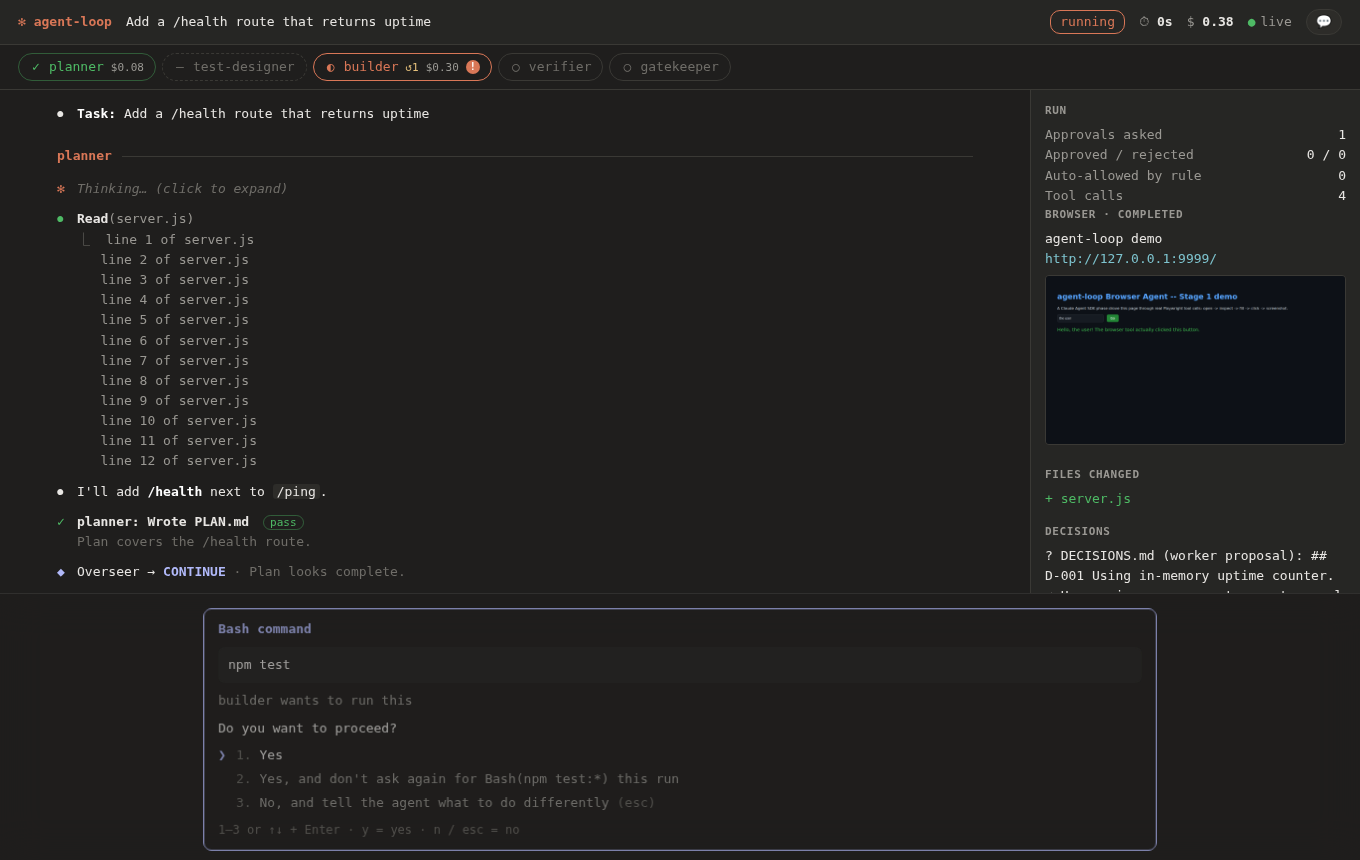
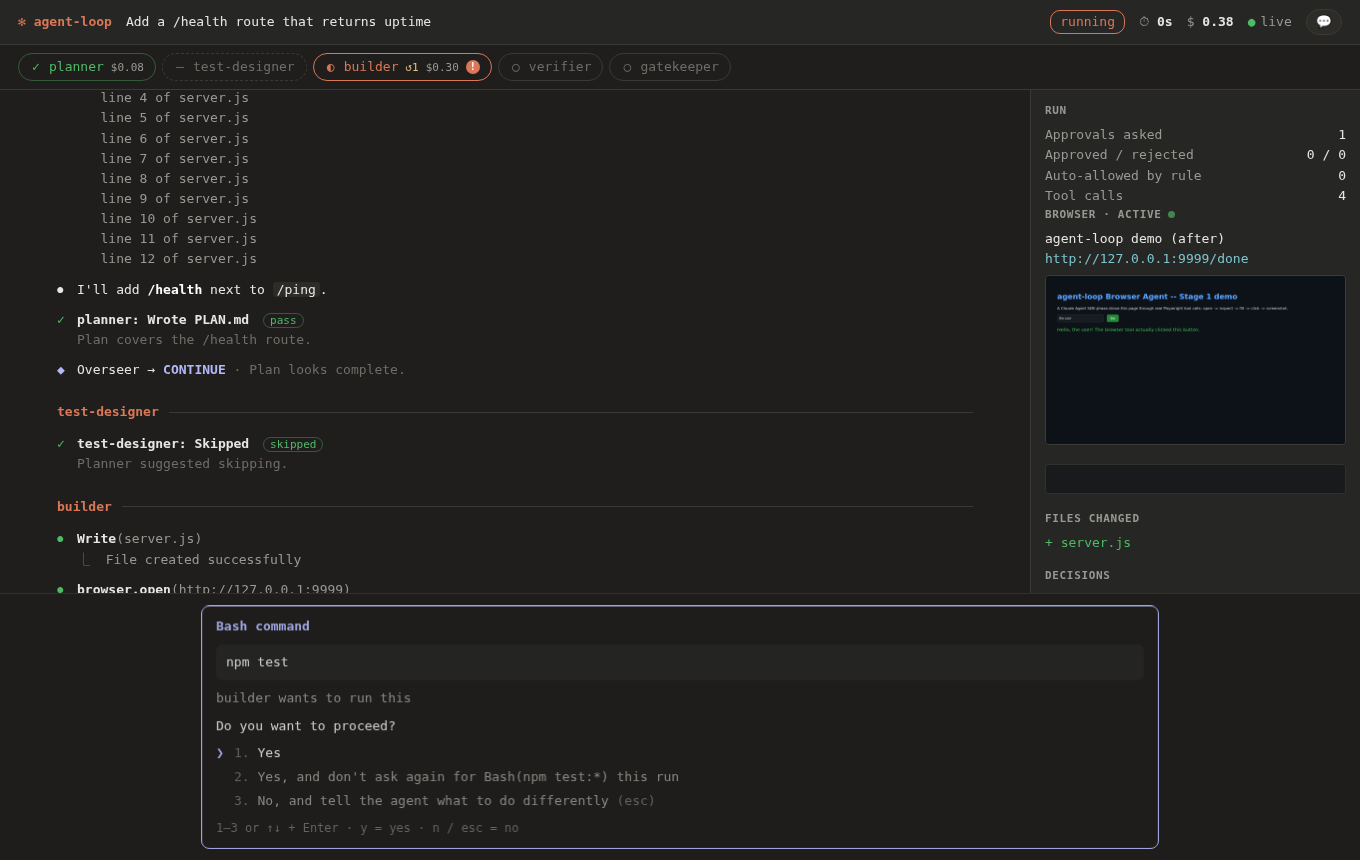
Make the browser panel a live view with a full snapshot gallery
Previously a browser-snapshot event just overwrote a single shared shot,
so the panel silently lost every earlier screenshot -- whatever the agent
was looking at a minute ago was already gone once a newer one arrived, and
there was no live indicator that the panel was even still updating.

- Every snapshot this run is kept (capped at 24) and shown as a filmstrip
  below the main image. The main view follows the newest one automatically
  ("live-follow"); clicking an older thumbnail pins the view to it and
  shows a "jump to live" control, so looking back doesn't fight the run
  for control of the display.
- A small pulsing dot next to "Browser · active", and a slow breathe on
  the active phase's own stepper icon, signal "still working" continuously
  between discrete WebSocket events instead of the UI looking frozen until
  the next one arrives. Implemented as CSS animation, not a JS ticker --
  the DOM-native equivalent of the persistent, dirty-flag-gated render loop
  a reviewed reference project uses a Pixi ticker for (see the upcoming
  docs/INSPIRATION-POKEHARNESS.md), appropriate for a DOM dashboard rather
  than a canvas game.
- A few rotating one-liners in the idle status line (picked by wall-clock
  time, changing every 8s) instead of a single static message. Dry,
  self-deprecating dev humor only -- this sits on the same screen as
  destructive-command approval prompts, so it stays professional rather
  than undermining what's actually being reviewed there.
[…]

diff --git a/ui/index.html b/ui/index.html
@@ -41,6 +41,10 @@
   .step { display: flex; align-items: center; gap: 7px; padding: 3px 11px; border: 1px solid var(--line); border-radius: 14px; color: var(--faint); background: none; cursor: pointer; white-space: nowrap; }
   .step .icon { width: 12px; text-align: center; }
   .step[data-state="active"] { color: var(--accent); border-color: var(--accent); }
+  /* A slow, independent breathe on the active phase's icon -- signals "still working" continuously
+     between discrete WS events instead of the row looking frozen until the next one arrives. Kept
+     visually distinct from data-waiting's glow (a different, more urgent signal: needs you). */
+  .step[data-state="active"] .icon { animation: live-pulse 2.4s ease-in-out infinite; }
   .step[data-state="pass"] { color: var(--green); border-color: #4eba6566; }
   .step[data-state="fail"] { color: var(--red); border-color: #ff6b8066; }
   .step[data-state="skipped"] { color: var(--faint); border-style: dashed; }
@@ -78,6 +82,16 @@
   #browser-panel.live { display: block; }
   #browser-panel img { width: 100%; border: 1px solid var(--line); border-radius: 4px; margin-top: 6px; cursor: zoom-in; background: #111; }
   #browser-panel .url { color: var(--cyan); word-break: break-all; }
+  #browser-panel h3 { display: flex; align-items: center; gap: 6px; }
+  .live-dot { width: 7px; height: 7px; border-radius: 999px; background: var(--green); display: inline-block; animation: live-pulse 1.6s ease-in-out infinite; }
+  .shot-main { animation: shot-flash .5s ease-out; }
+  .shot-jump-live { margin-top: 6px; width: 100%; }
+  /* A filmstrip of every snapshot taken this run, not just the latest -- the run is often over
+     before anyone's looking, so a history to scrub back through matters as much as "live" does. */
+  .shot-gallery { display: flex; gap: 4px; overflow-x: auto; margin-top: 6px; padding-bottom: 2px; }
+  .shot-gallery img { width: 44px; height: 30px; object-fit: cover; flex: none; border-radius: 3px; border: 1px solid var(--line); cursor: pointer; opacity: .55; background: #111; }
+  .shot-gallery img:hover { opacity: .85; }
+  .shot-gallery img.sel { opacity: 1; border-color: var(--accent); }
   @media (max-width: 1000px) { aside { display: none; } }
 
   /* transcript blocks */
@@ -226,6 +240,12 @@
      around the whole line -- present, not loud. */
   .blk.tool.awaiting { animation: blk-in .2s ease-out, pulse-glow-blk 2.2s ease-in-out infinite; }
   @keyframes pulse-glow-blk { 0%, 100% { box-shadow: -2px 0 0 0 rgba(217, 119, 87, .5); } 50% { box-shadow: -2px 0 8px 1px rgba(217, 119, 87, .38); } }
+  /* The browser panel's "live" dot and the brief flash on its main image when a new snapshot lands
+     -- shot-main is a fresh DOM node on every render (innerHTML is rebuilt wholesale), so this
+     animation replays automatically each time without any manual class-toggling JS, the same trick
+     .blk's own blk-in entrance animation already relies on. */
+  @keyframes live-pulse { 0%, 100% { opacity: 1; } 50% { opacity: .35; } }
+  @keyframes shot-flash { from { filter: brightness(1.6); } to { filter: brightness(1); } }
   html { transition: background-color .25s ease; }
   body, header, #stepper, aside, #dock, .step, .blk, .tag, .opt, .smallbtn, #theme-toggle,
   #run-state, .inputrow, #jump {
@@ -280,6 +300,21 @@
 
 <script>
 const PHASES = ["planner", "test-designer", "builder", "verifier", "gatekeeper"];
+// Rotates every 8s while idle -- picked by wall-clock time, not per-tick random, so it changes
+// slowly instead of flickering every second. Kept light, not edgy: this sits on the same screen as
+// destructive-command approval prompts, so the tone stays dry rather than dark.
+const IDLE_LINES = [
+  "Waiting for a run to start.",
+  "Idle. Even the Overseer needs a moment.",
+  "No run yet — the calm before the commits.",
+  "Standing by. Coffee's probably cold by now.",
+  "Idle. Unlike your CI queue, this part's free.",
+  "Nothing running. Good time to write that test you've been avoiding.",
+  "Idle. No commits, no incidents — a rare and beautiful combination.",
+  "Nothing running. Somewhere, someone's about to force-push to main.",
+  "Idle. That TODO from 2019 still isn't going to fix itself.",
+  "Nothing running. Your last commit message still doesn't explain what changed.",
+];
 const $ = (id) => document.getElementById(id);
 const scrollBox = $("scroll"), transcript = $("transcript"), dockInner = $("dock-inner");
 const token = new URLSearchParams(location.hash.slice(1)).get("token") || "";
@@ -397,15 +432,35 @@ setInterval(() => {
 // The dock is rebuilt whenever the pending prompt changes; an explicit mode avoids rebuilding the idle input.
 
 const browserPanel = $("browser-panel");
+// `history`: every snapshot taken this run (capped -- a long run can easily produce dozens), so the
+// panel is a scrubbable record, not just whatever the agent happened to be looking at last.
+// `pinned`: null means "follow the newest snapshot automatically" (the live-view default); an index
+// means the user clicked an older thumbnail and is deliberately looking at it, so a new snapshot
+// arriving must not yank the view out from under them -- it should just make "jump to live" appear.
+const browserState = { history: [], pinned: null };
+const SHOT_HISTORY_CAP = 24;
 function renderBrowserPanel(d) {
   browserPanel.classList.add("live");
-  browserPanel.innerHTML = "<h3>Browser · " + esc(d.status || "active") + "</h3>" +
-    "<div>" + esc(d.title || "(no page loaded yet)") + "</div>" +
-    (d.url ? '<div class="url">' + esc(d.url) + "</div>" : "") +
-    (d.shot ? '<a href="' + artifactUrl(d.runId, d.shot) + '" target="_blank"><img src="' + artifactUrl(d.runId, d.shot) + '" /></a>' : "") +
+  const atLive = d.pinned == null;
+  const idx = atLive ? d.history.length - 1 : d.pinned;
+  const cur = d.history[idx] || { shot: d.shot, url: d.url, title: d.title };
+  const isLive = d.status === "active" || d.status === undefined;
+  browserPanel.innerHTML =
+    "<h3>Browser · " + esc(d.status || "active") + (isLive ? ' <span class="live-dot" title="updating live"></span>' : "") + "</h3>" +
+    "<div>" + esc(cur.title || "(no page loaded yet)") + "</div>" +
+    (cur.url ? '<div class="url">' + esc(cur.url) + "</div>" : "") +
+    (cur.shot ? '<a href="' + artifactUrl(d.runId, cur.shot) + '" target="_blank"><img class="shot-main" src="' + artifactUrl(d.runId, cur.shot) + '" /></a>' : "") +
+    (!atLive ? '<button type="button" class="smallbtn shot-jump-live">⏵ jump to live</button>' : "") +
+    (d.history.length > 1
+      ? '<div class="shot-gallery">' + d.history.map((s, i) =>
+          '<img data-idx="' + i + '" class="' + (i === idx ? "sel" : "") + '" src="' + artifactUrl(d.runId, s.shot) + '" title="' + esc(s.title || "snapshot " + (i + 1)) + '" />'
+        ).join("") + "</div>"
+      : "") +
     (d.video ? '<a class="url" href="' + artifactUrl(d.runId, d.video) + '" target="_blank">▶ session recording (.webm)</a>' : "");
+  browserPanel.querySelectorAll(".shot-gallery img").forEach((img) => (img.onclick = () => { d.pinned = +img.dataset.idx; renderBrowserPanel(d); }));
+  const jump = browserPanel.querySelector(".shot-jump-live");
+  if (jump) jump.onclick = () => { d.pinned = null; renderBrowserPanel(d); };
 }
-const browserState = {};
 
 // ---------- the bottom dock: permission prompt (Claude Code style) or status line
 function promptBody(ev) {
@@ -429,7 +484,7 @@ function renderDock() {
     const spin = "⠋⠙⠹⠸⠼⠴⠦⠧⠇⠏"[Math.floor(Date.now() / 1000) % 10];
     const status = running
       ? '<span class="spin">' + spin + "</span> " + esc(state.phase || "starting") + " is working… <span class=\"muted\">(" + fmtTime(Date.now() - state.startedAt) + " · $" + state.cost.toFixed(2) + ")</span>"
-      : state.status === "idle" ? '<span class="muted">Waiting for a run to start.</span>'
+      : state.status === "idle" ? '<span class="muted">' + esc(IDLE_LINES[Math.floor(Date.now() / 8000) % IDLE_LINES.length]) + "</span>"
       : "Run " + esc(state.status) + "." + (state.reportPath ? ' <span class="muted">Saved report: ' + esc(state.reportPath) + "</span>" : "");
     // Only the status text changes each tick; the input is built once so typing never loses focus.
     if (dockInner.dataset.mode === "idle") { dockInner.querySelector(".statusline").innerHTML = status; return; }
@@ -607,13 +662,16 @@ function render(ev) {
     case "browser-artifact-created":
       if (ev.kind === "video") {
         browserState.video = ev.path; renderBrowserPanel(browserState);
+        const lastShot = browserState.history[browserState.history.length - 1]?.shot;
         blk("note", 'Browser session recording <span class="muted">· what the agent actually did in the app</span>' +
           '<video controls preload="metadata" style="display:block;max-width:100%;margin-top:6px;border:1px solid var(--line);border-radius:6px"' +
-          (browserState.shot ? ' poster="' + artifactUrl(ev.runId, browserState.shot) + '"' : "") + ' src="' + artifactUrl(ev.runId, ev.path) + '"></video>');
+          (lastShot ? ' poster="' + artifactUrl(ev.runId, lastShot) + '"' : "") + ' src="' + artifactUrl(ev.runId, ev.path) + '"></video>');
       }
       break;
     case "browser-snapshot":
-      Object.assign(browserState, { runId: ev.runId, url: ev.url, title: ev.title, shot: ev.screenshotPath });
+      browserState.runId = ev.runId;
+      browserState.history.push({ shot: ev.screenshotPath, url: ev.url, title: ev.title, ts: ev.ts });
+      if (browserState.history.length > SHOT_HISTORY_CAP) browserState.history.shift();
       renderBrowserPanel(browserState);
       break;
     // browser-action-started/-completed duplicate the mcp__browser__* tool-call/result lines already

diff --git a/docs/UI.md b/docs/UI.md
@@ -84,8 +84,8 @@ know for "an agent is working, and sometimes needs a yes/no from me."
   for. See `docs/screenshots/approval-ui/07-multiple-pending-approvals.png`.
 - **The header** shows the task, run status, elapsed time, total cost and connection state.
 - **A side panel** shows approval counts, saved "don't ask again" rules, the live browser (page
-  title, URL, latest screenshot), files changed, and decisions (worker proposals vs. ones you
-  recorded).
+  title, URL, a gallery of every screenshot this run -- see below), files changed, and decisions
+  (worker proposals vs. ones you recorded).
 - **The bottom input** takes a trusted decision whenever nothing is waiting: type it and press
   Enter.
 - **A theme toggle** in the header switches between this dark, Claude-Code-terminal-style look (the
@@ -125,6 +125,11 @@ What never becomes a rule, and always asks:
 - `curl`/`wget` to anywhere but localhost, `ssh`
 - `sudo`/`env`/`xargs`/`bash`, and interpreters' inline code (`python3 -c`, `python3 -O -c`,
   `node -e`)
+- `export`/`set`/`declare`/`typeset`/`unset`/`alias`/`unalias`/`readonly` -- these mutate shell state
+  (env vars, options, aliases) that outlives the one command, in the same persistent shell the agent's
+  session keeps across separate Bash calls; a rule for one exact approved line wouldn't help since the
+  risk is a *later*, already-trusted rule (`Bash(npm test:*)`) silently running under an environment
+  someone else changed
 - anything with `$(…)`, backticks, heredocs, or output redirected to a file
 - any command whose words expand at run time (`cat $F`)
 - a command after a `cd` that leaves `--dir`
@@ -144,6 +149,16 @@ two; it's a CSS skin (`:root[data-theme="desktop"]` in `ui/index.html`), not a s
 implementation, and the choice is remembered per-browser in `localStorage`.
 
 ![The same dashboard in the Desktop theme](screenshots/approval-ui/06-desktop-theme.png)
+
+### The browser panel is a live view, not one frame
+
+Every screenshot the agent takes with `--browser` used to just replace the last one in the panel --
+whatever it was looking at a minute ago was already gone. It's now a gallery: every snapshot this run
+stays available as a thumbnail strip, the main view follows the newest one automatically, and a small
+pulsing dot next to "Browser · active" (plus a slow breathe on the active phase's own stepper icon)
+signals the run is still doing something between events instead of the panel looking frozen. Click an
+older thumbnail to look back at it -- a "jump to live" button appears so you're not stuck there once
+the run moves on.
 
 ### The terminal is a real interface too
 

diff --git a/CHANGELOG.md b/CHANGELOG.md
@@ -54,6 +54,24 @@ All notable changes to this project are documented here. Format follows
   same clay/orange accent already used for the brand mark and active-phase state, as a soft ambient
   glow rather than a hard ring, after review. Screenshot:
   `docs/screenshots/approval-ui/07-multiple-pending-approvals.png`.
+- **The browser panel is now a live view with a full snapshot history, not a single frame that
+  silently gets replaced.** Every `browser-snapshot` this run is kept (capped at 24) and shown as a
+  gallery strip below the main image; clicking an older thumbnail pins the view to it and a
+  "jump to live" control appears, so looking back at an earlier state doesn't fight the run for
+  control of the display. A small pulsing dot next to "Browser · active" (and a slow breathe on the
+  active phase's stepper icon) signals "still working" continuously between discrete WebSocket
+  events, instead of the panel looking frozen until the next one arrives — the DOM-native
+  equivalent of the persistent, dirty-flag-gated render loop a reviewed reference project
+  (see `docs/INSPIRATION-POKEHARNESS.md`) uses a Pixi ticker for; here it's just CSS animation,
+  which the browser's own compositor already runs independently of JS/events. New regression test:
+  a hostile page `title`/`url` reaching the gallery's new `title` attribute sink stays inert text
+  (`test/ui-render.mjs`).
+- **A few rotating one-liners in the idle status line** instead of a single static "Waiting for a run
+  to start." — picked by wall-clock time so they change every 8s rather than flicker per-tick.
+  Deliberately dry/self-deprecating dev humor (commit messages, force-pushes, stale TODOs), not
+  political and not genuinely dark — this sits on the same screen as destructive-command approval
+  prompts, so the tone stays professional rather than undermining what's actually being reviewed
+  there.
 
 ### Fixed
 - The screenshot tool's base64 image data was dumped into the transcript, the log index and every
